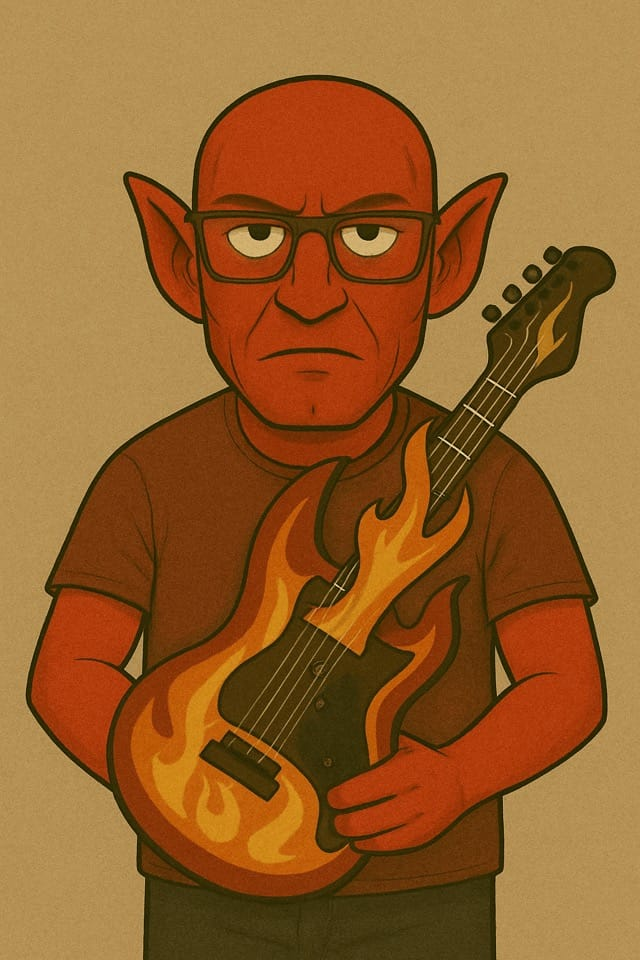
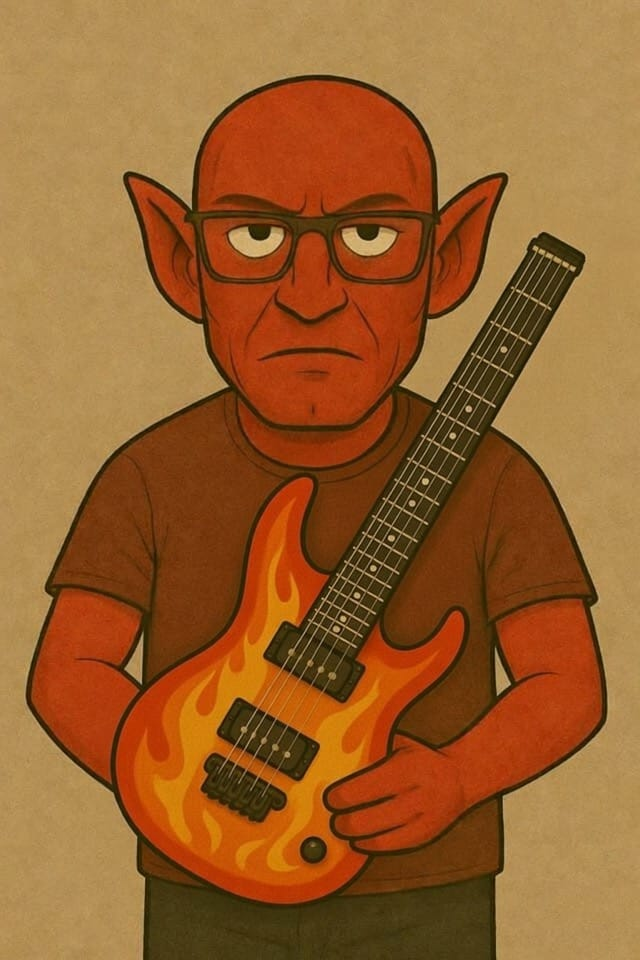
added goblin gear section, changed qranog to use headless guitars

Changed region(s): [[0.1562, 0.2188, 0.9688, 0.9688]]

diff --git a/_src/_app.js b/_src/_app.js
@@ -143,6 +143,131 @@ injectGlobal`
       transition-[color,box-shadow]
       hover:(text-sec-100 scale-105 after:(shadow-[inset_0_1px_0_rgb(255_255_255_/_.75)] bg-[length:100%_100%]));
     }
+
+    .tabs {
+      @apply flex flex-wrap;
+      --tabs-height: auto;
+      --tabs-direction: row;
+      --tab-height: calc(var(--size-field, 0.25rem) * 10);
+      height: var(--tabs-height);
+      flex-direction: var(--tabs-direction);
+    }
+
+    .tab {
+      @apply text-current hover:text-white relative inline-flex cursor-pointer appearance-none flex-wrap items-center justify-center text-center select-none;
+      --tab-p: 0.75rem;
+      --tab-bg: color-mix(in oklab, currentColor, #0000 90%);
+      --tab-border-color: color-mix(in oklab, currentColor, #0000 90%);
+      --tab-radius-ss: 0;
+      --tab-radius-se: 0;
+      --tab-radius-es: 0;
+      --tab-radius-ee: 0;
+      --tab-order: 0;
+      border-color: #0000;
+      order: var(--tab-order);
+      height: var(--tab-height);
+      font-size: 0.875rem;
+      padding-inline: var(--tab-p);
+
+      &:is(input[type="radio"]) {
+        &:after {
+          --tw-content: attr(aria-label);
+          content: var(--tw-content);
+        }
+      }
+      &:is(label) {
+        @apply relative;
+        input {
+          @apply absolute inset-0 cursor-pointer appearance-none opacity-0;
+        }
+      }
+
+      &:checked,
+      &:is(label:has(:checked)),
+      &:is(.tab-active, [aria-selected="true"], [aria-current="true"], [aria-current="page"]) {
+        & + .tab-content {
+          @apply block;
+        }
+      }
+      &:not(
+        :checked,
+        label:has(:checked),
+        :hover,
+        .tab-active,
+        [aria-selected="true"],
+        [aria-current="true"],
+        [aria-current="page"]
+      ) {
+        @apply text-white/50;
+      }
+
+      &:not(input):empty {
+        @apply grow cursor-default;
+      }
+
+      &:focus {
+        @apply outline-hidden;
+      }
+
+      &:focus-visible,
+      &:is(label:has(:checked:focus-visible)) {
+        outline: 2px solid currentColor;
+        outline-offset: -5px;
+      }
+
+      &[disabled] {
+        @apply pointer-events-none opacity-40;
+      }
+    }
+
+    .tab-content {
+      @apply order-1 hidden border-transparent;
+      --tabcontent-radius-ss: var(--radius-box);
+      --tabcontent-radius-se: var(--radius-box);
+      --tabcontent-radius-es: var(--radius-box);
+      --tabcontent-radius-ee: var(--radius-box);
+
+      --tabcontent-order: 1;
+      width: 100%;
+      height: calc(100% - var(--tab-height) + var(--border));
+      margin: var(--tabcontent-margin);
+      order: var(--tabcontent-order);
+      border-width: 0;
+      border-start-start-radius: var(--tabcontent-radius-ss);
+      border-start-end-radius: var(--tabcontent-radius-se);
+      border-end-start-radius: var(--tabcontent-radius-es);
+      border-end-end-radius: var(--tabcontent-radius-ee);
+    }
+
+    .tabs-border {
+      & > .tab-content { @apply border-t [border-color:color-mix(in_oklab,currentColor,#0000_75%)] pt-6; }
+      & > .tab {
+        --tab-border-color: #0000 #0000 var(--tab-border-color) #0000;
+        position: relative;
+        &:before {
+          content: "";
+          background-color: var(--tab-border-color);
+          transition: background-color 0.2s ease;
+          width: 100%;
+          height: 3px;
+          bottom: 0;
+          left: 0;
+          position: absolute;
+        }
+        &:is(.tab-active, [aria-selected="true"], [aria-current="true"], [aria-current="page"]):not(
+            .tab-disabled,
+            [disabled]
+          ),
+        &:is(input:checked),
+        &:is(label:has(:checked)) {
+          &:before {
+            --tab-border-color: currentColor;
+            border-top: 3px solid;
+          }
+        }
+      }
+    }
+
     .dialog {
       @apply
       m-0

diff --git a/_src/goblins/_data/qranog.md b/_src/goblins/_data/qranog.md
@@ -12,13 +12,6 @@ desc: |
 
 excerpt: His guitar is strung with ork sinew and forged from vibrating boneplates.
 
-brands:
-  Kiesel: https://kieselguitars.com
-  .strandberg*: https://strandbergguitars.com/
-  Fishman: https://fishman.com
-  Neural DSP: https://neuraldsp.com
-  Polychrome DSP: https://polychromedsp.com
-
 gear:
   Guitars:
     - title: Kiesel › Vader
@@ -55,6 +48,17 @@ gear:
       url: https://neuraldsp.com/plugins/archetype-tim-henson
     - title: Archetype › Gojira
       url: https://neuraldsp.com/plugins/archetype-gojira
+  Brands:
+    - title: Kiesel
+      url: https://kieselguitars.com
+    - title: .strandberg*
+      url: https://strandbergguitars.com/
+    - title: Fishman
+      url: https://fishman.com
+    - title: Neural DSP
+      url: https://neuraldsp.com
+    - title: Polychrome DSP
+      url: https://polychromedsp.com
 
 date: 0004-01-01
 ---
